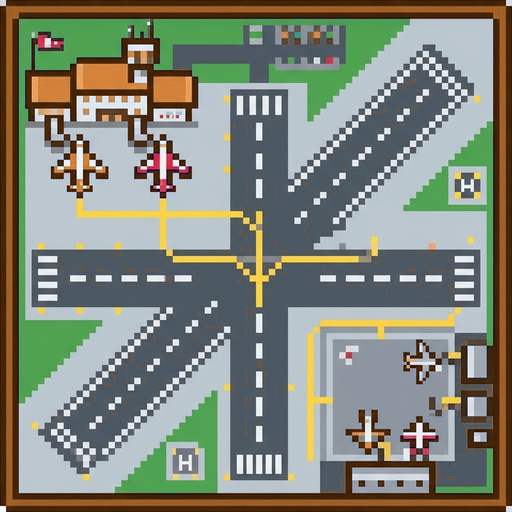
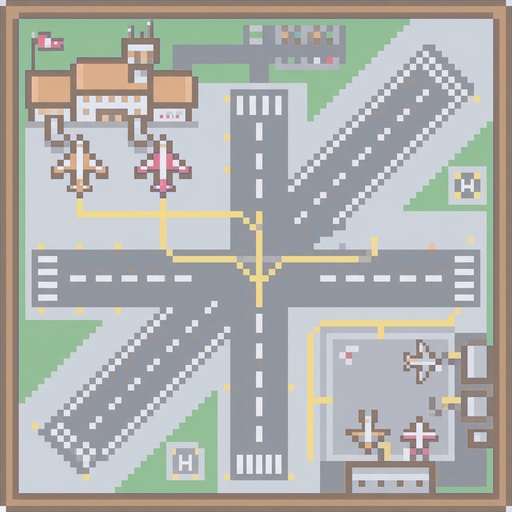
軍港マスに陣営色のドット絵を表示、空港と軍港の絵を薄くしてユニットを見やすく
Claude-Session: https://claude.ai/code/session_01EpGn21dPxcJXTkxZdcByCd

diff --git a/アイドルwar/index.html b/アイドルwar/index.html
@@ -960,7 +960,7 @@ function board(){
     const t=T(x,y),d=TERR[t.type];let u=unitAt(x,y);if(u&&u.hidden&&!seenBy(u,viewer()))u=null;
     if(u&&V&&!V.has(y*W+x)&&!(u.side===vw||(isTeam()&&vw>=0&&!enemy(u.side,vw))))u=null;
     let cls=tileClass(t.type,t.owner)+(V&&!V.has(y*W+x)?' fog':'');
-    const airSt=t.type==='tv'?` style="background-image:url('img/airport/${t.owner>=0?FACTION_DIR[t.owner]:'neutral'}.png')"`:'';if(t.type==='tv')cls+=' hasimg';
+    const airSt=(t.type==='tv'||t.type==='port')?` style="background-image:url('img/${t.type==='tv'?'airport':'port'}/${t.owner>=0?FACTION_DIR[t.owner]:'neutral'}.png')"`:'';if(t.type==='tv'||t.type==='port')cls+=' hasimg';
     if(reach&&reach.has(x+','+y))cls+=ui.mode==='unload'?' reach drop':' reach';
     if(ui.mode==='move'&&u&&ui.uid&&canMerge(S.units.find(v=>v.id===ui.uid),u))cls+=' merge';
     if(threat&&threat.has(x+','+y))cls+=' threat';
